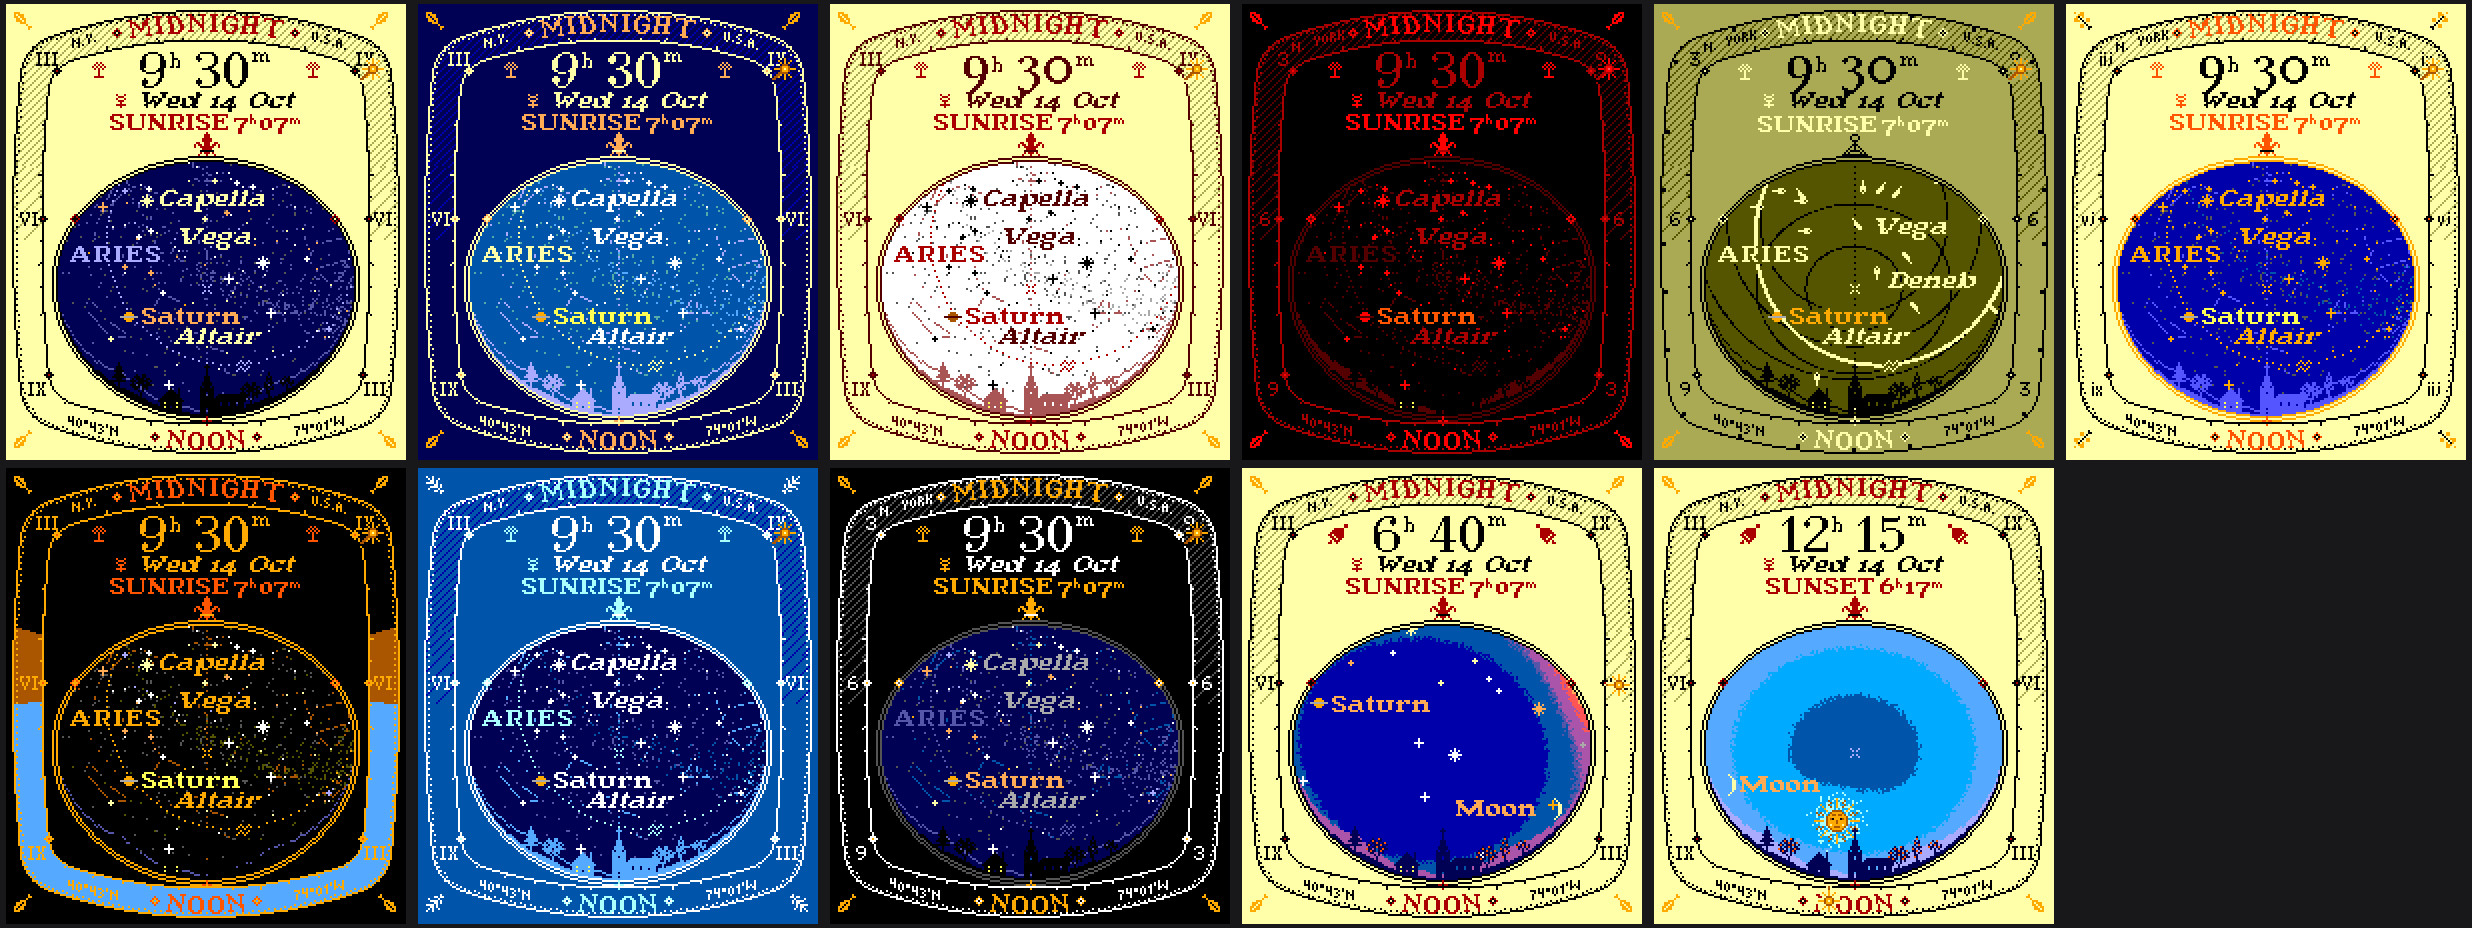
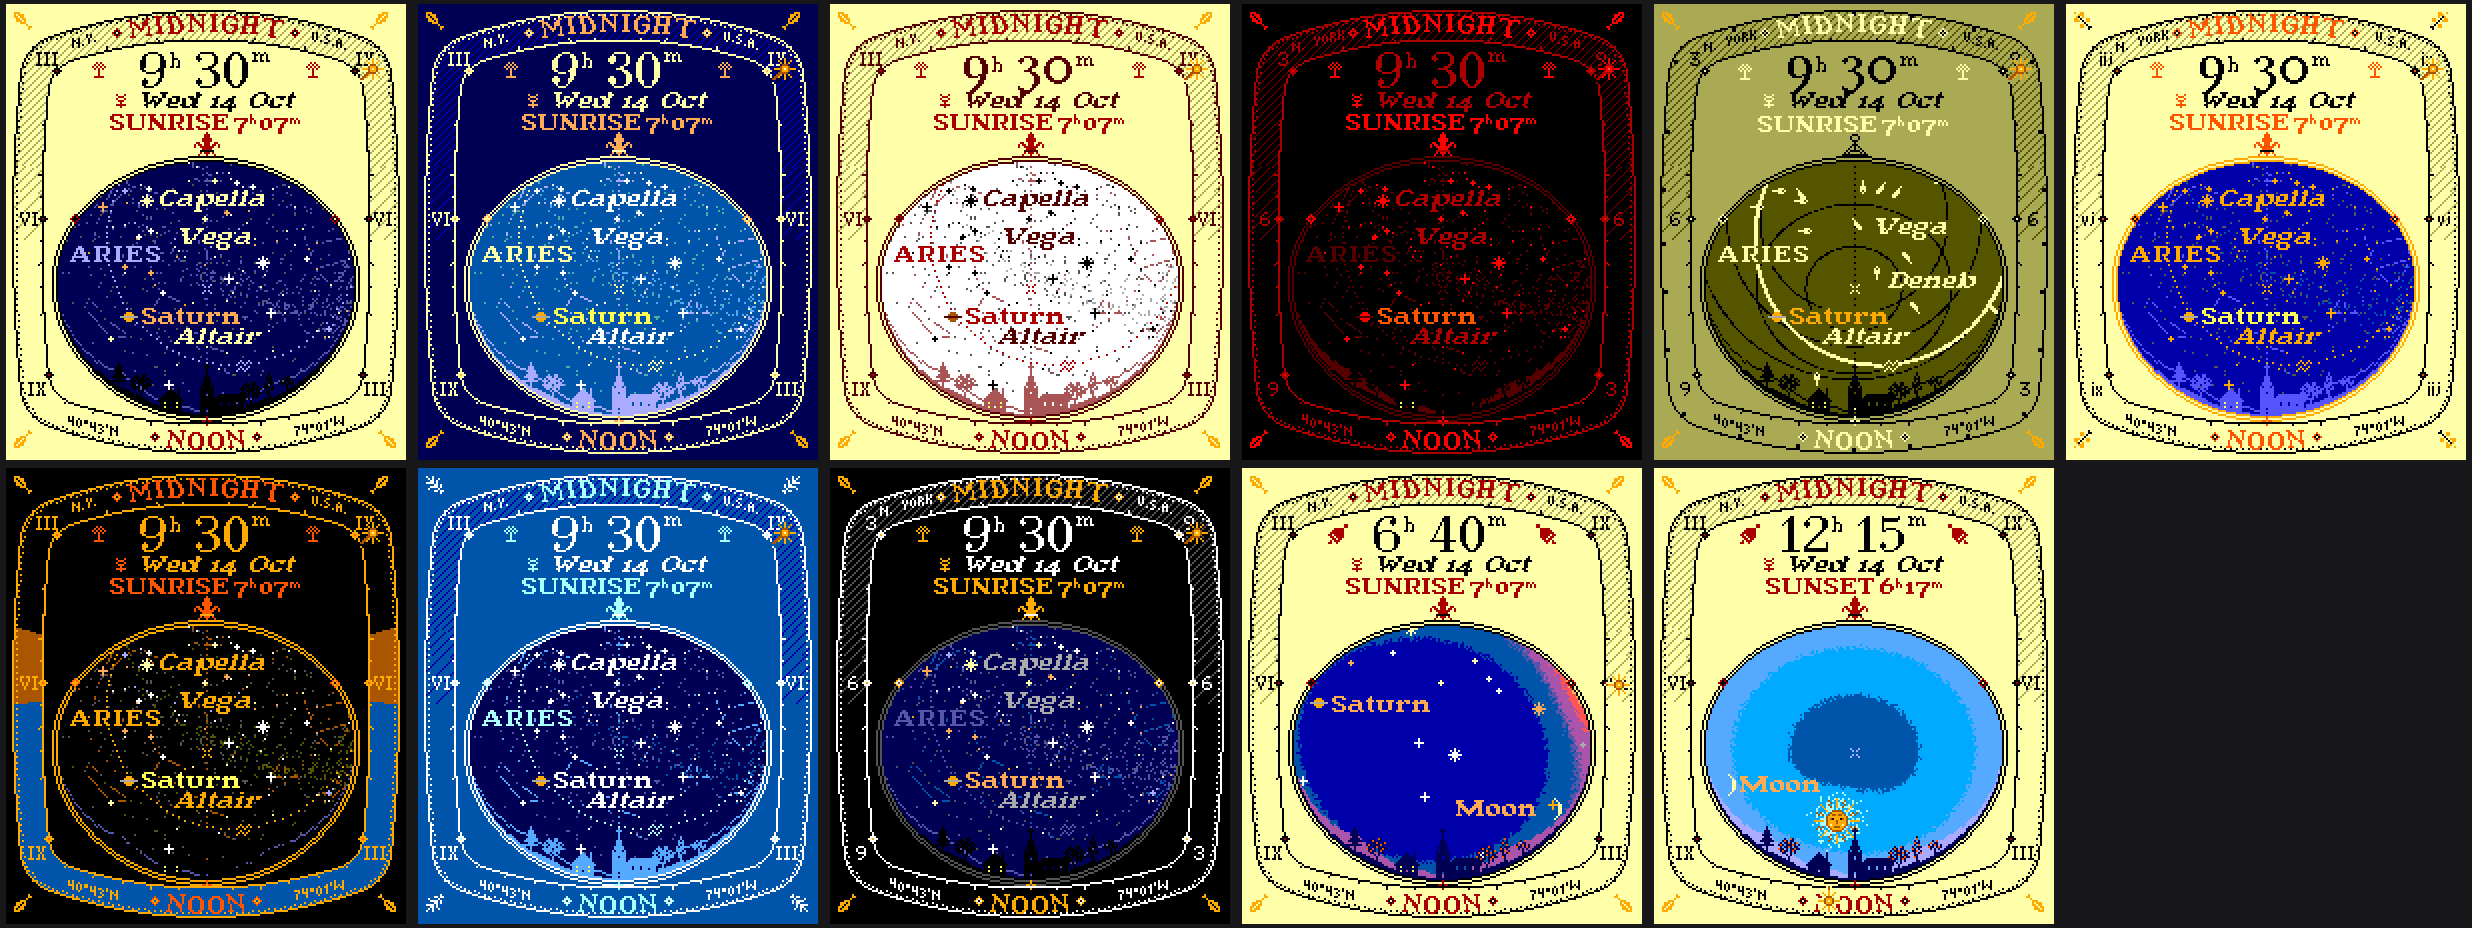
The Orloj's ring: a deep blue day, so its gold and vermilion read
On the Orloj plate the day zone of the ring was a light cyan-blue, and the
vermilion NOON, the gold numerals and the coordinates on it were hard to
read. The ring's day zone is now a deep blue, as on the clock's own dial,
so the gold and vermilion stand out. The window keeps its lighter day sky.

Changed region(s): [[0.0, 0.75, 0.1869, 1.0]]

diff --git a/proto/plates.py b/proto/plates.py
@@ -1112,8 +1112,8 @@ def render(when, dial, sky, tz, plate="planisphere", round_screen=True, clock24=
     ang = np.degrees(np.arctan2(xx + 0.5 - dial.cx, yy + 0.5 - dial.cy))
     s_alt = np.degrees(np.arcsin(np.sin(lat) * np.sin(sdec) + np.cos(lat) * np.cos(sdec) * np.cos(np.radians(ang))))
     step = np.select([s_alt > -0.833, s_alt > -6, s_alt > -12, s_alt > -18], [0] + list(HATCH[:3]), HATCH[3])
-    if P.get("ringfill") == "zones":                     # the clock's zones round the Sun's path instead
-        img[band & (s_alt > -0.833)] = c8(1, 2, 3)
+    if P.get("ringfill") == "zones":                     # the clock's zones round the Sun's path instead, the day
+        img[band & (s_alt > -0.833)] = c8(0, 1, 2)       # a deep blue, as on the clock, so the gold reads on it
         img[band & (s_alt <= -0.833) & (s_alt > -18)] = c8(2, 1, 0)
     else:
         hatch = band & (step > 0) & ((xx + yy) % np.maximum(step, 1) == 0)
